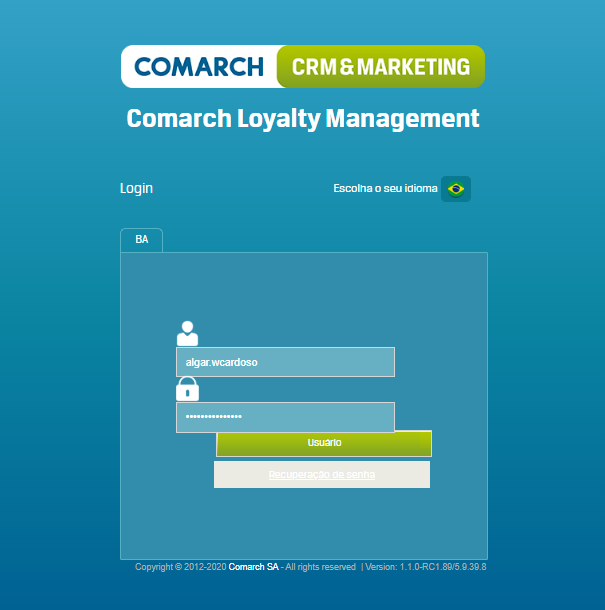
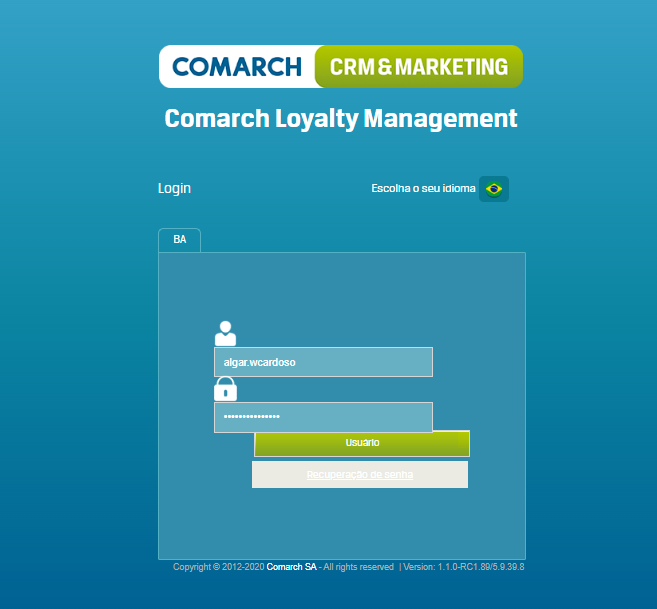
Ajuste qualidade da imagem

diff --git a/src/sections/forms/comarch/basic-wizard/AceesComarch.js b/src/sections/forms/comarch/basic-wizard/AceesComarch.js
@@ -27,10 +27,11 @@ export default function AceesComarch() {
         >
           <Image
             src={comarch}
-            alt="mantis"
+            alt="login"
             layout="fixed"
             width={matchDownSM ? 350 : 365}
             height={matchDownSM ? 325 : 370}
+            quality={85} // Ajuste a qualidade conforme necessário
             style={{
               objectFit: 'cover',
               borderRadius: '25px'
